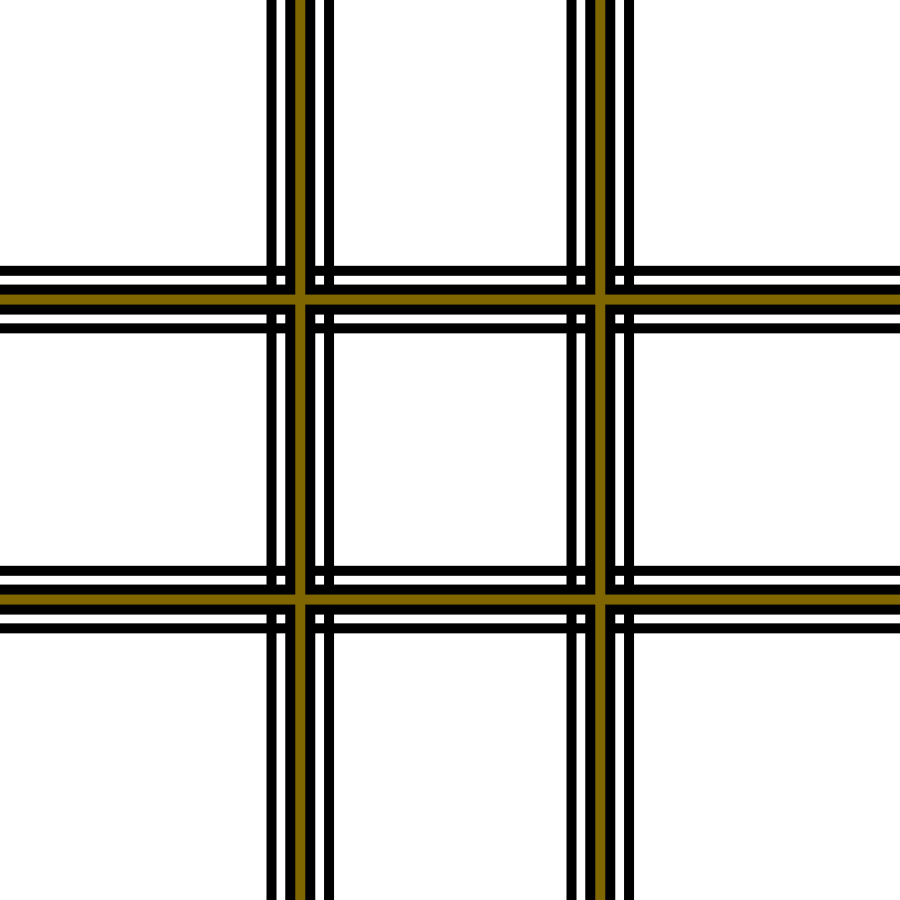
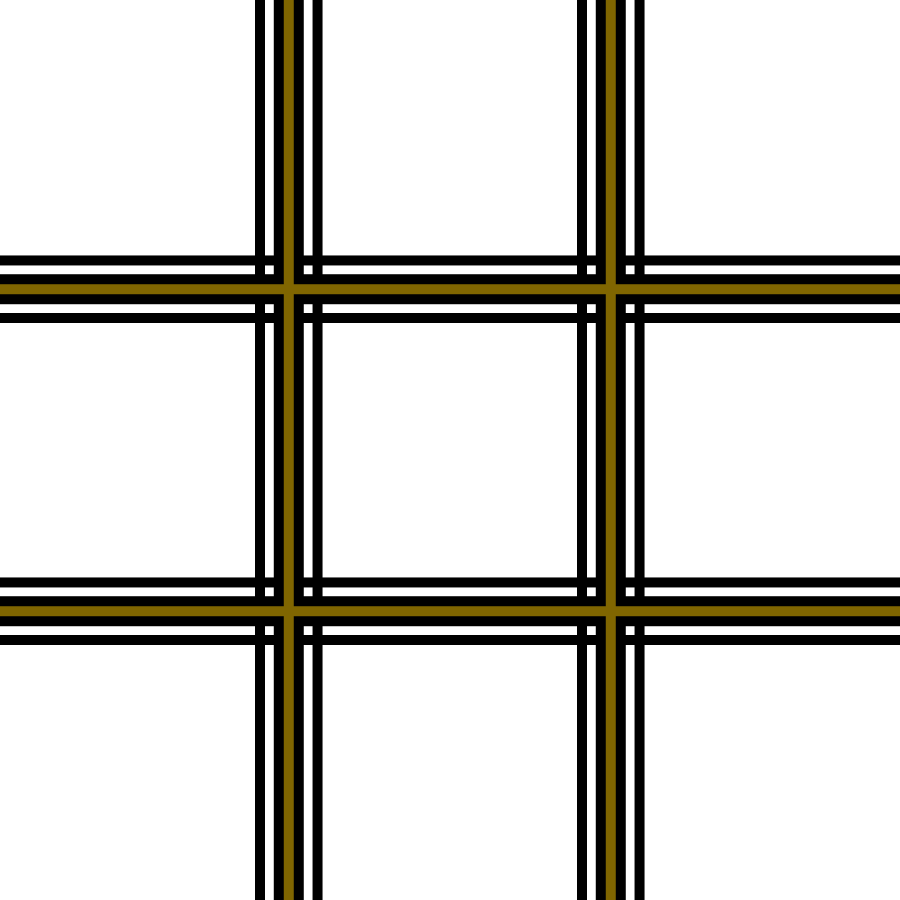
Putting down markers works now.

Changed region(s): [[0.0, 0.0, 1.0, 1.0]]

diff --git a/visualization.py b/visualization.py
@@ -24,6 +24,12 @@ class Graphics:
     # the thickness of the lines making up the grid in pixels.
     grid_thickness = 68
 
+    # width of a box in the grid
+    grid_box_width = screen_width / 3 - 2*grid_thickness/3
+
+    # Height of a box in the grid.
+    grid_box_height = screen_height / 3 - 2*grid_thickness/3
+
     # The inner and outer radii of the circles defining the o marker.
     outer_circle_radius = screen_width / 7
     inner_circle_radius = screen_width / 8
@@ -156,10 +162,8 @@ class Graphics:
         :param column_index: column index of a state matrix. Possible values are 0,1 or 2
         :return: The according position on the screen
         """
-        return ((self.screen_width / 3 + self.grid_thickness / 4) * column_index  + self.screen_width / 6
-                - self.grid_thickness / 4,
-                (self.screen_height / 3 + self.grid_thickness / 4) * row_index+ self.screen_height / 6
-                - self.grid_thickness / 4)
+        return ((self.grid_box_width + self.grid_thickness) * column_index + self.grid_box_width/2,
+                (self.grid_box_height + self.grid_thickness) * row_index + self.grid_box_height/2)
 
     def on_click(self, pos_x, pos_y):
         """
